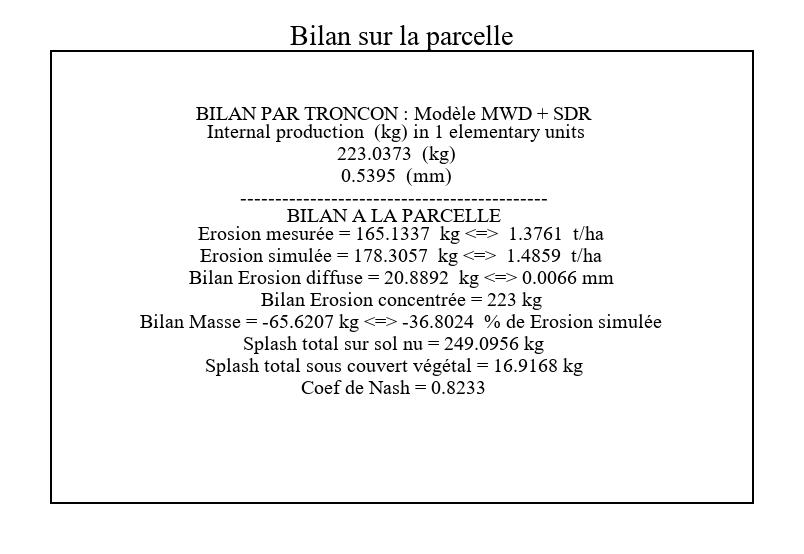
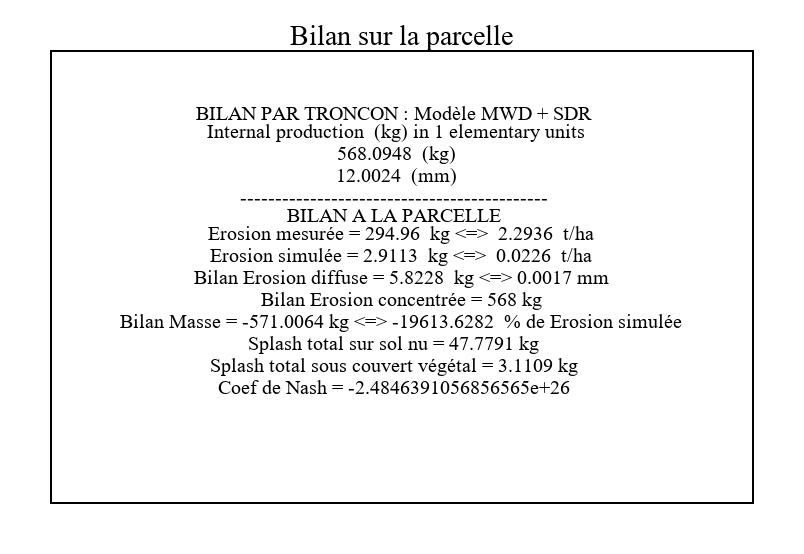
Minor fix.

Changed region(s): [[0.1555, 0.3989, 0.8396, 0.7365], [0.4042, 0.2455, 0.5908, 0.3375]]

diff --git a/main.py b/main.py
@@ -16,6 +16,7 @@ global_parameters_path = "global_param.csv"
 precipitation_data_path	= "pluvio_Philippsburg_2011.txt"
 streamflow_data_path	= "debit_Philippsburg_2011.txt"
 mes_concentration_data_path  = "MES_Philippsburg_2011.txt"
+
 slope_data_path = "Pente.txt"
 
 local_config_file_abs_path = os.path.join(data_file_dir, local_parameters_path)
@@ -49,7 +50,7 @@ def get_aggregated_sediment_data(model_instance,
                                  erosion_variable_type = variablesdefinition.simulated_erosion, 
                                  time_step="6H", show_plot=False):
     sediments_data = model_instance.create_sedimentograph(show_plot=show_plot)
-    
+
     sediments_data = sediments_data[sediments_data["data_categories"] == erosion_variable_type]
     
     sediments_data = get_first_two_columns_of(sediments_data)
@@ -106,14 +107,13 @@ def execute_model(show_plot=False):
                 erosion_model.local_parameters = local_parameters
                 erosion_model.global_parameters = global_parameters[row_number]
                 erosion_model.set_parameters() 
-                
                 precipitation_data = precipitation.disaggregate_date_time_from_minute_to_seconds(
                         erosion_model.raw_precipitation_data,
                         erosion_model.global_parameters[variablesdefinition.dt]
                     ) 
                 erosion_model.precipitation_data = precipitation_data
-                
-                aggregated_sediments_data = get_aggregated_sediment_data(erosion_model)
+                aggregated_sediments_data = get_aggregated_sediment_data(erosion_model, show_plot=show_plot)
+                #print(aggregated_sediments_data)
                 master_sendiment_data_frame = pd.concat([master_sendiment_data_frame,
                                                          aggregated_sediments_data],
                                                         axis=1)            
@@ -131,6 +131,6 @@ def execute_model(show_plot=False):
 if __name__ == '__main__':
     execute_model(show_plot=False)
 
-#Press the green button in the gutSuter to run the script.
+#Press the green button in the gutter to run the script.
 #new_erosion_model.set_parameters()
 #new_erosion_model.create_sedimentograph()

diff --git a/mhydas/mhydas/utilities/graphics.py b/mhydas/mhydas/utilities/graphics.py
@@ -111,7 +111,7 @@ def sedimentograph(Pluie, infil, streamflow, Q_sortie_parcelle, mes,
                                          "data_categories": ["simulated flow"]*len(Q_sortie_parcelle)
                                          })], 
                                                ignore_index=True, sort=False)
-    computed_erosion_values = CALC_CONC_TR_LISEM[:, int(local_parameters[variablesdefinition.nb_unit])-1]
+    computed_erosion_values = CALC_CONC_TR_LISEM[:, int(local_parameters[variablesdefinition.nb_unit])]#CALC_CONC_TR_LISEM[:, int(local_parameters[variablesdefinition.nb_unit])-1]
 
     data = pd.concat([data, 
                       pd.DataFrame({"timestamp": main_time_stamps,

diff --git a/mhydas/mhydas/erosion/erosion.py b/mhydas/mhydas/erosion/erosion.py
@@ -383,7 +383,7 @@ class Model:
                                 self.Cmax_cal, self.L_Pluie, self.L_Inf, 
                                 self.L_Ruiss, self.Vol_mes, self.Vol_cal, 
                                 self.Qmax_mes, self.Qmax_cal, self.coeff_Nash,
-                                _global_parameters, _local_parameters, show_plot=False
+                                _global_parameters, _local_parameters, show_plot=show_plot
                                 )
         if show_plot:
             graphics.erosion_balance_per_block(self.splash_method, 

diff --git a/mhydas/mhydas/erosion/sediments.py b/mhydas/mhydas/erosion/sediments.py
@@ -327,7 +327,7 @@ def sediments_concentration_per_unit(SPLASH_CALC_UNIT_LISEM, H_CALC_UNIT,  V_CAL
         #% Ecriture Matrice (stockage du dernier noeud  )
         CALC_CONC_TR_LISEM[j][nb_unit] = Conc_Tr_LISEM_aval
         MASSE_SED[j][nb_unit] = Masse_Tr_LISEM_aval
-
+    #print(list(CALC_CONC_TR_LISEM))
     return CALC_CONC_TR_LISEM, CALC_PROD_INTERNE, MASSE_SED, CALC_TC_LISEM, CALC_VOL_TR_LISEM
 
 
